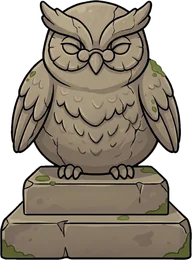
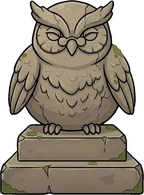
Hostatgeria: el mussol és més petit (només tapa la porta) i s'empeny menys distància
Claude-Session: https://claude.ai/code/session_01Lxfm6YSSDLi4GYSBQ6SeDm

diff --git a/index.html b/index.html
@@ -61,62 +61,62 @@
     <div id="joc"></div>
 
     <!-- L'ordre importa: cada fitxer fa servir coses dels anteriors -->
-    <script src="js/sfx.js?v=2611190600"></script>
-    <script src="js/partida.js?v=2611190600"></script>
-    <script src="js/progres.js?v=2611190600"></script>
-    <script src="js/dibuixos.js?v=2611190600"></script>
-    <script src="js/icones.js?v=2611190600"></script>
-    <script src="js/dibuixos_biblio.js?v=2611190600"></script>
-    <script src="js/dibuixos_cela.js?v=2611190600"></script>
-    <script src="js/dibuixos_taller.js?v=2611190600"></script>
+    <script src="js/sfx.js?v=2611190700"></script>
+    <script src="js/partida.js?v=2611190700"></script>
+    <script src="js/progres.js?v=2611190700"></script>
+    <script src="js/dibuixos.js?v=2611190700"></script>
+    <script src="js/icones.js?v=2611190700"></script>
+    <script src="js/dibuixos_biblio.js?v=2611190700"></script>
+    <script src="js/dibuixos_cela.js?v=2611190700"></script>
+    <script src="js/dibuixos_taller.js?v=2611190700"></script>
     <script src="js/dibuixos_cripta.js?v=2611161400"></script>
-    <script src="js/dibuixos_georgi.js?v=2611190600"></script>
-    <script src="js/dibuixos_oratori.js?v=2611190600"></script>
-    <script src="js/dibuixos_ermita.js?v=2611190600"></script>
-    <script src="js/dibuixos_casa.js?v=2611190600"></script>
-    <script src="js/dibuixos_proleg.js?v=2611190600"></script>
-    <script src="js/dibuixos_pingpong.js?v=2611190600"></script>
-    <script src="js/assets.js?v=2611190600"></script>
-    <script src="js/dialegs.js?v=2611190600"></script>
-    <script src="js/ui.js?v=2611190600"></script>
-    <script src="js/zona_base.js?v=2611190600"></script>
-    <script src="js/atac_arma.js?v=2611190600"></script>
-    <script src="js/combat.js?v=2611190600"></script>
-    <script src="js/musica.js?v=2611190600"></script>
-    <script src="js/zones/placa.js?v=2611190600"></script>
-    <script src="js/zones/esglesia.js?v=2611190600"></script>
-    <script src="js/zones/monestir.js?v=2611190600"></script>
-    <script src="js/zones/bassadoria.js?v=2611190600"></script>
-    <script src="js/zones/casa_gran.js?v=2611190600"></script>
-    <script src="js/zones/nord.js?v=2611190600"></script>
-    <script src="js/zones/cirosa.js?v=2611190600"></script>
-    <script src="js/estels.js?v=2611190600"></script>
-    <script src="js/pingpong.js?v=2611190600"></script>
-    <script src="js/credits.js?v=2611190600"></script>
-    <script src="js/zones/oest.js?v=2611190600"></script>
-    <script src="js/zones/bosc_pi.js?v=2611190600"></script>
-    <script src="js/zones/cementiri.js?v=2611190600"></script>
-    <script src="js/zones/casa.js?v=2611190600"></script>
-    <script src="js/zones/cabana.js?v=2611190600"></script>
-    <script src="js/zones/cami.js?v=2611190600"></script>
-    <script src="js/zones/ermita.js?v=2611190600"></script>
-    <script src="js/zones/era.js?v=2611190600"></script>
-    <script src="js/zones/jardi.js?v=2611190600"></script>
-    <script src="js/zones/torre.js?v=2611190600"></script>
-    <script src="js/zones/hostatgeria.js?v=2611190600"></script>
-    <script src="js/zones/taverna.js?v=2611190600"></script>
-    <script src="js/zones/gabia.js?v=2611190600"></script>
-    <script src="js/zones/gabia_decor.js?v=2611190600"></script>
-    <script src="js/zones/biblioteca.js?v=2611190600"></script>
-    <script src="js/zones/rebedor.js?v=2611190600"></script>
-    <script src="js/zones/cela.js?v=2611190600"></script>
-    <script src="js/diari.js?v=2611190600"></script>
-    <script src="js/mapa.js?v=2611190600"></script>
-    <script src="js/proves_llistes.js?v=2611190600"></script>
-    <script src="js/proves_escenaris.js?v=2611190600"></script>
-    <script src="js/proves.js?v=2611190600"></script>
-    <script src="js/intro.js?v=2611190600"></script>
-    <script src="js/main.js?v=2611190600"></script>
+    <script src="js/dibuixos_georgi.js?v=2611190700"></script>
+    <script src="js/dibuixos_oratori.js?v=2611190700"></script>
+    <script src="js/dibuixos_ermita.js?v=2611190700"></script>
+    <script src="js/dibuixos_casa.js?v=2611190700"></script>
+    <script src="js/dibuixos_proleg.js?v=2611190700"></script>
+    <script src="js/dibuixos_pingpong.js?v=2611190700"></script>
+    <script src="js/assets.js?v=2611190700"></script>
+    <script src="js/dialegs.js?v=2611190700"></script>
+    <script src="js/ui.js?v=2611190700"></script>
+    <script src="js/zona_base.js?v=2611190700"></script>
+    <script src="js/atac_arma.js?v=2611190700"></script>
+    <script src="js/combat.js?v=2611190700"></script>
+    <script src="js/musica.js?v=2611190700"></script>
+    <script src="js/zones/placa.js?v=2611190700"></script>
+    <script src="js/zones/esglesia.js?v=2611190700"></script>
+    <script src="js/zones/monestir.js?v=2611190700"></script>
+    <script src="js/zones/bassadoria.js?v=2611190700"></script>
+    <script src="js/zones/casa_gran.js?v=2611190700"></script>
+    <script src="js/zones/nord.js?v=2611190700"></script>
+    <script src="js/zones/cirosa.js?v=2611190700"></script>
+    <script src="js/estels.js?v=2611190700"></script>
+    <script src="js/pingpong.js?v=2611190700"></script>
+    <script src="js/credits.js?v=2611190700"></script>
+    <script src="js/zones/oest.js?v=2611190700"></script>
+    <script src="js/zones/bosc_pi.js?v=2611190700"></script>
+    <script src="js/zones/cementiri.js?v=2611190700"></script>
+    <script src="js/zones/casa.js?v=2611190700"></script>
+    <script src="js/zones/cabana.js?v=2611190700"></script>
+    <script src="js/zones/cami.js?v=2611190700"></script>
+    <script src="js/zones/ermita.js?v=2611190700"></script>
+    <script src="js/zones/era.js?v=2611190700"></script>
+    <script src="js/zones/jardi.js?v=2611190700"></script>
+    <script src="js/zones/torre.js?v=2611190700"></script>
+    <script src="js/zones/hostatgeria.js?v=2611190700"></script>
+    <script src="js/zones/taverna.js?v=2611190700"></script>
+    <script src="js/zones/gabia.js?v=2611190700"></script>
+    <script src="js/zones/gabia_decor.js?v=2611190700"></script>
+    <script src="js/zones/biblioteca.js?v=2611190700"></script>
+    <script src="js/zones/rebedor.js?v=2611190700"></script>
+    <script src="js/zones/cela.js?v=2611190700"></script>
+    <script src="js/diari.js?v=2611190700"></script>
+    <script src="js/mapa.js?v=2611190700"></script>
+    <script src="js/proves_llistes.js?v=2611190700"></script>
+    <script src="js/proves_escenaris.js?v=2611190700"></script>
+    <script src="js/proves.js?v=2611190700"></script>
+    <script src="js/intro.js?v=2611190700"></script>
+    <script src="js/main.js?v=2611190700"></script>
     <script>
         // Service worker: només amb http(s) (no obrint el fitxer directament) i sense fer fallar el joc si no pot ser
         window.addEventListener('load', () => { try { if (typeof game !== 'undefined') sessionStorage.removeItem('runna_reintent'); } catch (e) { } });

diff --git a/js/zones/hostatgeria.js b/js/zones/hostatgeria.js
@@ -164,7 +164,7 @@ class ZonaSoterraniHost extends ZonaBase {
 //   dreta (capella, la Carmèlia): esbarzers negres → Runna
 // En alliberar les tres, obren la porta de l'Hostatgeria per dins (al vestíbul apareix un cofre amb l'Empara Fraternal).
 // On queda l'àngel de pedra un cop empès: justament fora de la porta del mig (que s'obre a 560-640) i lluny de les altres dues (a 300 i 900)
-const ESTATUA_X_ESQ = 470, ESTATUA_X_DRE = 730;
+const ESTATUA_X_ESQ = 500, ESTATUA_X_DRE = 700;
 class ZonaHostatgeriaInt extends ZonaCasaBase {
     constructor() {
         super('ZonaHostatgeriaInt', {
@@ -236,10 +236,10 @@ class ZonaHostatgeriaInt extends ZonaCasaBase {
         if (!Estat.flag('refetorObert')) {
             this.estatua = this.crearEstatua(600, 250);
             // Un cos sota els peus i un tros de paret al darrere: ni es pot vorejar per darrere ni passar entre l'àngel i la porta
-            this.colEstatua = [this.colisio(600, 236, 100, 40), this.colisio(600, 192, 150, 36)];
+            this.colEstatua = [this.colisio(600, 236, 76, 40), this.colisio(600, 192, 120, 36)];
         } else {
             const e = this.crearEstatua(Estat.flag('estatuaEsquerra') ? ESTATUA_X_ESQ : ESTATUA_X_DRE, 250);       // ja empès: es queda al costat
-            this.colisio(e.x, 236, 100, 40);
+            this.colisio(e.x, 236, 76, 40);
         }
         // Bloqueig de la capella (porta de la dreta): dues mates d'esbarzers negres, i un mur invisible al darrere perquè no es pugui vorejar
         this.esbarzer(880, 215, 'host_cap1'); this.esbarzer(924, 215, 'host_cap2');

diff --git a/js/assets.js b/js/assets.js
@@ -214,7 +214,7 @@ const CATALEG = [
     { key: 'tarota_ui', file: 'assets/ui/tarota.webp', amplada: 520, cru: true },                 // la tarota del pergamí inferior on es toquen les notes (js/musica.js)
     { key: 'arma_espasa', file: 'assets/armes/espasa.webp',      amplada: 28, provisional: (c, w) => dibuixarEspasaProvisional(c, w) },   // l'espasa de Runna
     { key: 'cartell_llums', file: 'assets/objectes/cartell_llums.webp', amplada: 560, cru: true },            // cartell de paper (es mostra tal com és, amb el fons blanc)
-    { key: 'estatua_mussol', file: 'assets/objectes/estatua_mussol.webp', amplada: 96, cru: true },          // l'escultura de l'Hostatgeria (un mussol de pedra, a la peanya) que barra la porta del refetor
+    { key: 'estatua_mussol', file: 'assets/objectes/estatua_mussol.webp', amplada: 72, cru: true },          // l'escultura de l'Hostatgeria (un mussol de pedra, a la peanya) que barra la porta del refetor
     { key: 'cartell_llums_petit', file: 'assets/objectes/cartell_llums_petit.webp', amplada: 56, cru: true },   // la mateixa imatge, nítida i petita, per a la paret (en examinar-lo es mostra la gran)
     { key: 'espurna',      file: null,      amplada: 32, provisional: (c, w) => dibuixarPuntSegell(c, w) }
 ];
